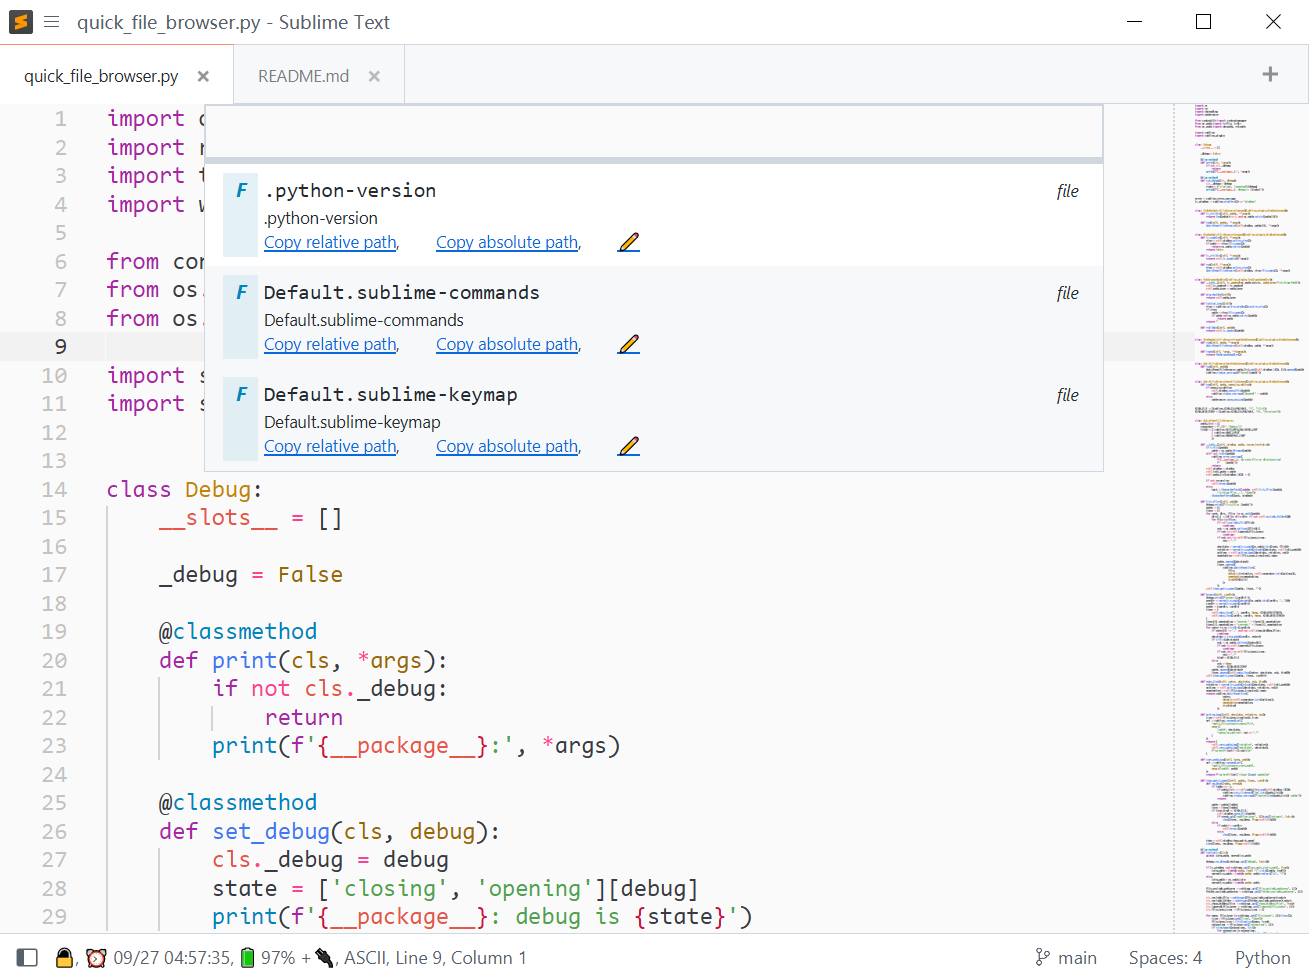
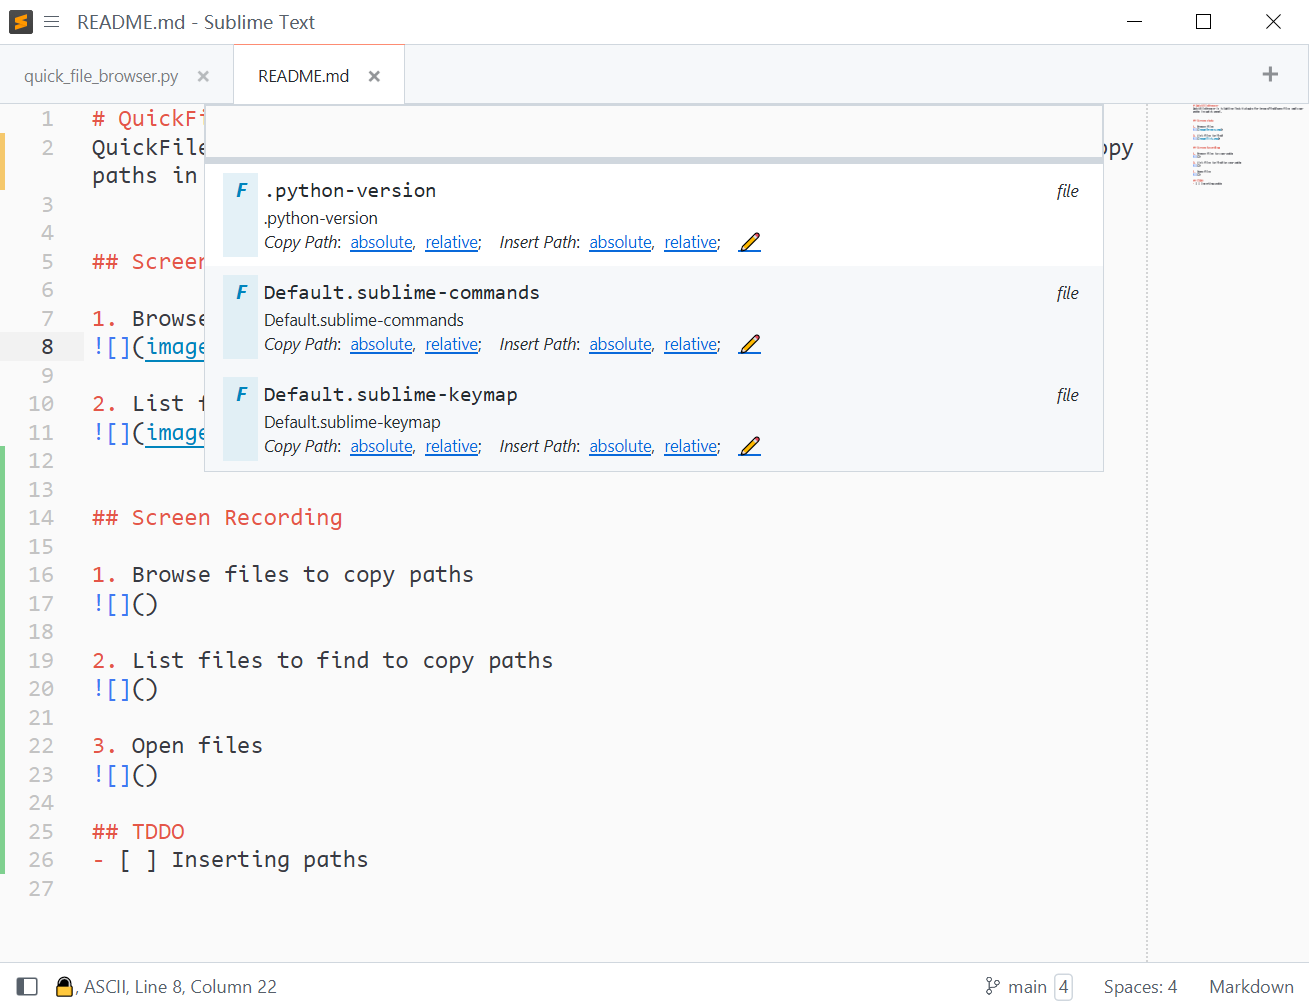
Added I`nsert Path` operation.

diff --git a/quick_file_browser.py b/quick_file_browser.py
@@ -105,7 +105,7 @@ KIND_DIRECTORY = (sublime.KIND_ID_VARIABLE, 'D', "Directory")
 
 class QuickPanelFileBrowser:
     path_list = {}
-    separator = f',{8 * "&nbsp;"}'
+    separator = 4 * '&nbsp;'
     FLAGS = ( sublime.KEEP_OPEN_ON_FOCUS_LOST
             | sublime.WANT_EVENT
             | sublime.MONOSPACE_FONT
@@ -210,18 +210,30 @@ class QuickPanelFileBrowser:
                 'open_in_sublime': ext == '.*'
             }
         )
+
+        def save_path_url(path):
+            return sublime.command_url(
+                'quick_file_browser_save_path',
+                args={'path': path}
+            )
+
+        def insert_path_url(path):
+            return sublime.command_url(
+                'insert',
+                args={'characters': path}
+            )
+
+        def make_tags(operation, make_url):
+            return f"""\
+<em>{operation} Path</em>:{2 * '&nbsp;'}\
+<a href="{make_url(absolute)}">absolute</a>,{2 * '&nbsp;'}\
+<a href="{make_url(relative)}">relative</a>;"""
+
         return [
-            self.save_path_tag('relative', relative),
-            self.save_path_tag('absolute', absolute),
+            make_tags('Copy', save_path_url),
+            make_tags('Insert', insert_path_url),
             f'<a href="{url}">{icon}</a>'
         ]
-
-    def save_path_tag(self, type, path):
-        url = sublime.command_url(
-            'quick_file_browser_save_path',
-            args={'path': path}
-        )
-        return f'<a href="{url}">Copy {type} path</a>'
 
     def show_quick_panel(self, paths, items, curdir):
         def on_done(index, event):

diff --git a/README.md b/README.md
@@ -1,5 +1,5 @@
 # QuickFileBrowser
-QuickFileBrowser is A Sublime Text 4 plugin for browse/find/open files and copy paths in quick panel. 
+QuickFileBrowser is A Sublime Text 4 plugin for browse/find/open files and copy paths in quick panel.
 
 
 ## Screen shots
@@ -9,3 +9,18 @@ QuickFileBrowser is A Sublime Text 4 plugin for browse/find/open files and copy 
 
 2. List files to find
 ![](image/list.png)
+
+
+## Screen Recording
+
+1. Browse files to copy paths
+![]()
+
+2. List files to find to copy paths
+![]()
+
+3. Open files
+![]()
+
+## TDDO
+- [x] Inserting paths
